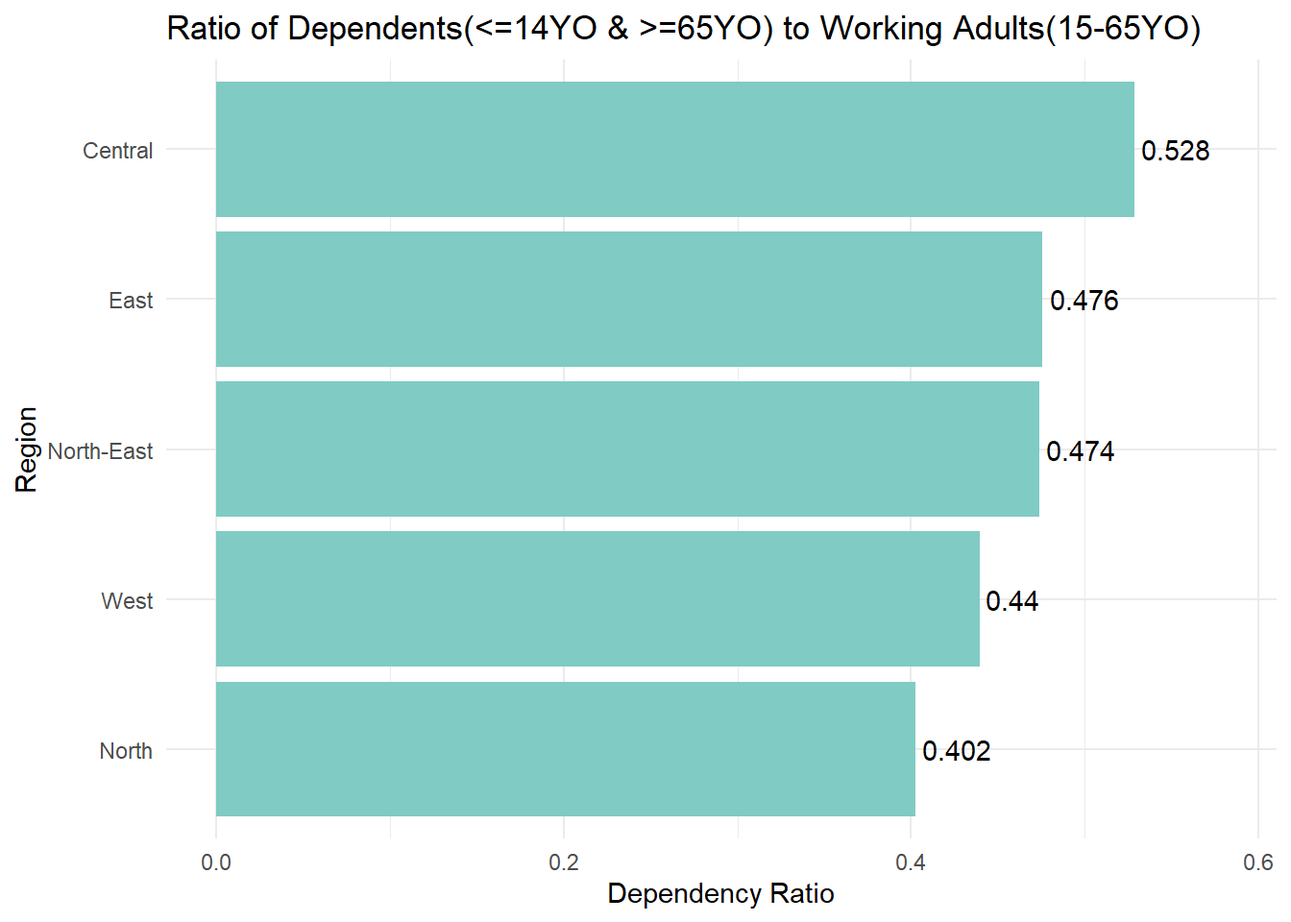
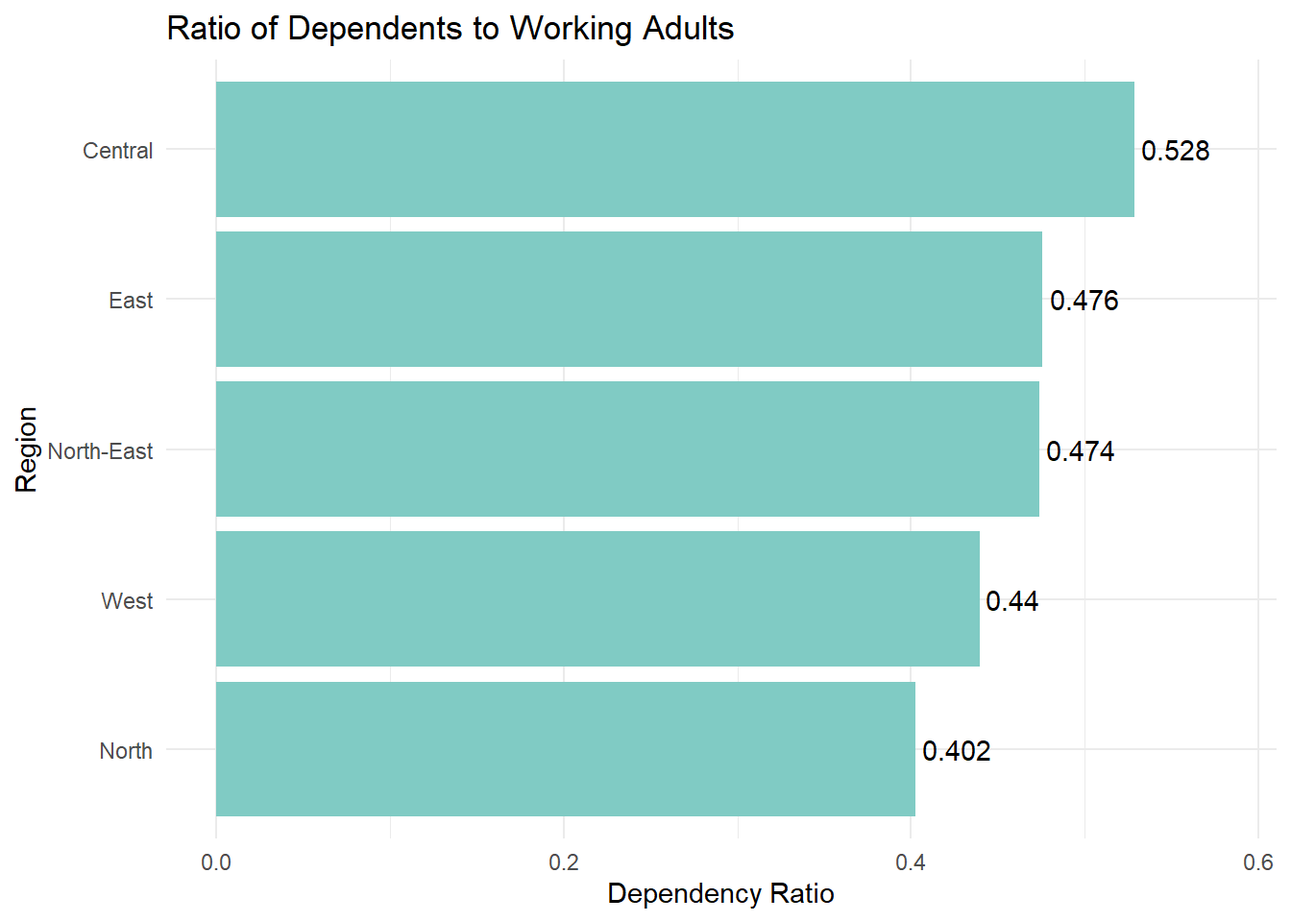
Updated minor errors

Changed region(s): [[0.3438, 0.0, 0.9375, 0.0625]]

diff --git a/_site/Take-Home_Ex/Take-Home_Ex01/Take-Home_Ex01.html b/_site/Take-Home_Ex/Take-Home_Ex01/Take-Home_Ex01.html
@@ -9,7 +9,7 @@
 <meta name="author" content="Liaw Ying Ting, Celin">
 <meta name="dcterms.date" content="2025-05-01">
 
-<title>Take-Home Exercise 1: Creating Data Visualisation that is enlightening and truthful – Celin’s ISSS608 Site</title>
+<title>Take-Home Exercise 1: Creating Data Visualization that is enlightening and truthful – Celin’s ISSS608 Site</title>
 <style>
 code{white-space: pre-wrap;}
 span.smallcaps{font-variant: small-caps;}
@@ -227,8 +227,8 @@ pre > code.sourceCode > span > a:first-child::before { text-decoration: underlin
   <li><a href="#check-for-duplicate-entries" id="toc-check-for-duplicate-entries" class="nav-link" data-scroll-target="#check-for-duplicate-entries">2.3.1 Check for duplicate entries</a></li>
   <li><a href="#check-for-missing-values" id="toc-check-for-missing-values" class="nav-link" data-scroll-target="#check-for-missing-values">2.3.2 Check for missing values</a></li>
   <li><a href="#filtering-for-relevant-variables-renaming-them" id="toc-filtering-for-relevant-variables-renaming-them" class="nav-link" data-scroll-target="#filtering-for-relevant-variables-renaming-them">2.3.3 Filtering for relevant variables &amp; renaming them</a></li>
-  <li><a href="#preview-processed-data" id="toc-preview-processed-data" class="nav-link" data-scroll-target="#preview-processed-data">2.3.4 Preview processed data</a></li>
-  <li><a href="#grouping-them-into-regions-for-easy-visualisation" id="toc-grouping-them-into-regions-for-easy-visualisation" class="nav-link" data-scroll-target="#grouping-them-into-regions-for-easy-visualisation">2.3.5 Grouping them into Regions for Easy Visualisation</a></li>
+  <li><a href="#grouping-them-into-regions-for-easy-visualization" id="toc-grouping-them-into-regions-for-easy-visualization" class="nav-link" data-scroll-target="#grouping-them-into-regions-for-easy-visualization">2.3.4 Grouping them into Regions for Easy Visualization</a></li>
+  <li><a href="#preview-processed-data" id="toc-preview-processed-data" class="nav-link" data-scroll-target="#preview-processed-data">2.3.5 Preview Processed Data</a></li>
   </ul></li>
   </ul></li>
   <li><a href="#data-visualization" id="toc-data-visualization" class="nav-link" data-scroll-target="#data-visualization">3. Data Visualization</a>
@@ -247,7 +247,7 @@ pre > code.sourceCode > span > a:first-child::before { text-decoration: underlin
 
 <header id="title-block-header" class="quarto-title-block default">
 <div class="quarto-title">
-<h1 class="title">Take-Home Exercise 1: Creating Data Visualisation that is enlightening and truthful</h1>
+<h1 class="title">Take-Home Exercise 1: Creating Data Visualization that is enlightening and truthful</h1>
 </div>
 
 
@@ -290,7 +290,7 @@ pre > code.sourceCode > span > a:first-child::before { text-decoration: underlin
 </section>
 <section id="the-task" class="level2">
 <h2 class="anchored" data-anchor-id="the-task">1.2 The Task</h2>
-<p>Assuming the role of the graphical editor of the media company, you are tasked to prepare at most three data visualisation for the article.</p>
+<p>Assuming the role of the graphical editor of the media company, you are tasked to prepare at most three data visualization for the article.</p>
 <p>To accomplish the task, the data: <em>Singapore Residents by Planning Area/Subzone, Single Year of Age and Sex, June 2024</em> dataset shared by <a href="https://www.singstat.gov.sg/find-data/search-by-theme/population/geographic-distribution/latest-data">Department of Statistics, Singapore(DOS)</a> is used.</p>
 </section>
 <section id="breaking-down-the-question" class="level2">
@@ -385,26 +385,9 @@ pre > code.sourceCode > span > a:first-child::before { text-decoration: underlin
 <span id="cb7-13"><a href="#cb7-13" aria-hidden="true" tabindex="-1"></a>  )</span></code><button title="Copy to Clipboard" class="code-copy-button"><i class="bi"></i></button></pre></div>
 </div>
 </section>
-<section id="preview-processed-data" class="level3">
-<h3 class="anchored" data-anchor-id="preview-processed-data">2.3.4 Preview processed data</h3>
-<div class="cell">
-<div class="sourceCode cell-code" id="cb8"><pre class="sourceCode r code-with-copy"><code class="sourceCode r"><span id="cb8-1"><a href="#cb8-1" aria-hidden="true" tabindex="-1"></a><span class="fu">head</span>(resident_data_clean)</span></code><button title="Copy to Clipboard" class="code-copy-button"><i class="bi"></i></button></pre></div>
-<div class="cell-output cell-output-stdout">
-<pre><code># A tibble: 6 × 7
-  Planning_Area Subzone                Age   Sex    Population  Time Age_numeric
-  &lt;chr&gt;         &lt;chr&gt;                  &lt;fct&gt; &lt;chr&gt;       &lt;dbl&gt; &lt;dbl&gt;       &lt;dbl&gt;
-1 Ang Mo Kio    Ang Mo Kio Town Centre 0     Males          10  2024           0
-2 Ang Mo Kio    Ang Mo Kio Town Centre 0     Femal…         10  2024           0
-3 Ang Mo Kio    Ang Mo Kio Town Centre 1     Males          10  2024           1
-4 Ang Mo Kio    Ang Mo Kio Town Centre 1     Femal…         10  2024           1
-5 Ang Mo Kio    Ang Mo Kio Town Centre 2     Males          10  2024           2
-6 Ang Mo Kio    Ang Mo Kio Town Centre 2     Femal…         10  2024           2</code></pre>
-</div>
-</div>
-</section>
-<section id="grouping-them-into-regions-for-easy-visualisation" class="level3">
-<h3 class="anchored" data-anchor-id="grouping-them-into-regions-for-easy-visualisation">2.3.5 Grouping them into Regions for Easy Visualisation</h3>
-<p>As there are too many planning areas, to make things easier to visualise, the planning areas have been further categorised into 5 areas: North, North-East, East, West and Central. This was done by using the categories on the <a href="https://eservice.ura.gov.sg/maps/?service=MP">Urban Redevelopment Authority(URA)</a> website:</p>
+<section id="grouping-them-into-regions-for-easy-visualization" class="level3">
+<h3 class="anchored" data-anchor-id="grouping-them-into-regions-for-easy-visualization">2.3.4 Grouping them into Regions for Easy Visualization</h3>
+<p>As there are too many planning areas, to make things easier to visualize, the planning areas have been further categorised into 5 areas: North, North-East, East, West and Central. This was done by using the categories on the <a href="https://eservice.ura.gov.sg/maps/?service=MP">Urban Redevelopment Authority(URA)</a> website:</p>
 <ul>
 <li><p><strong>North</strong>: Central Water Catchment, Lim Chu Kang, Mandai, Sembawang, Simpang, Sungei Kadut, Woodlands, Yishun</p></li>
 <li><p><strong>North-East</strong>: Ang Mo Kio, Hougang, Punggol, Sengkang, Serangoon, Seletar</p></li>
@@ -416,50 +399,67 @@ pre > code.sourceCode > span > a:first-child::before { text-decoration: underlin
 <p><strong>Steps:</strong></p>
 <p><strong>Step 1:</strong> A new list called <strong>region_map</strong> was created to categorise them into the 5 categories</p>
 <div class="cell">
-<div class="sourceCode cell-code" id="cb10"><pre class="sourceCode r code-with-copy"><code class="sourceCode r"><span id="cb10-1"><a href="#cb10-1" aria-hidden="true" tabindex="-1"></a><span class="co"># 1. Step 1</span></span>
-<span id="cb10-2"><a href="#cb10-2" aria-hidden="true" tabindex="-1"></a>region_map <span class="ot">&lt;-</span> <span class="fu">list</span>(</span>
-<span id="cb10-3"><a href="#cb10-3" aria-hidden="true" tabindex="-1"></a>  <span class="at">North =</span> <span class="fu">c</span>(</span>
-<span id="cb10-4"><a href="#cb10-4" aria-hidden="true" tabindex="-1"></a>    <span class="st">"Central Water Catchment"</span>, <span class="st">"Lim Chu Kang"</span>, <span class="st">"Mandai"</span>,</span>
-<span id="cb10-5"><a href="#cb10-5" aria-hidden="true" tabindex="-1"></a>    <span class="st">"Sembawang"</span>, <span class="st">"Simpang"</span>, <span class="st">"Sungei Kadut"</span>, <span class="st">"Woodlands"</span>, <span class="st">"Yishun"</span></span>
-<span id="cb10-6"><a href="#cb10-6" aria-hidden="true" tabindex="-1"></a>  ),</span>
-<span id="cb10-7"><a href="#cb10-7" aria-hidden="true" tabindex="-1"></a>  <span class="st">`</span><span class="at">North-East</span><span class="st">`</span> <span class="ot">=</span> <span class="fu">c</span>(</span>
-<span id="cb10-8"><a href="#cb10-8" aria-hidden="true" tabindex="-1"></a>    <span class="st">"Ang Mo Kio"</span>, <span class="st">"Hougang"</span>, <span class="st">"Punggol"</span>, <span class="st">"Sengkang"</span>, </span>
-<span id="cb10-9"><a href="#cb10-9" aria-hidden="true" tabindex="-1"></a>    <span class="st">"Serangoon"</span>, <span class="st">"Seletar"</span></span>
-<span id="cb10-10"><a href="#cb10-10" aria-hidden="true" tabindex="-1"></a>  ),</span>
-<span id="cb10-11"><a href="#cb10-11" aria-hidden="true" tabindex="-1"></a>  <span class="at">East =</span> <span class="fu">c</span>(</span>
-<span id="cb10-12"><a href="#cb10-12" aria-hidden="true" tabindex="-1"></a>    <span class="st">"Bedok"</span>, <span class="st">"Changi"</span>, <span class="st">"Changi Bay"</span>, </span>
-<span id="cb10-13"><a href="#cb10-13" aria-hidden="true" tabindex="-1"></a>    <span class="st">"Pasir Ris"</span>, <span class="st">"Paya Lebar"</span>, <span class="st">"Tampines"</span></span>
-<span id="cb10-14"><a href="#cb10-14" aria-hidden="true" tabindex="-1"></a>  ),</span>
-<span id="cb10-15"><a href="#cb10-15" aria-hidden="true" tabindex="-1"></a>  <span class="at">West =</span> <span class="fu">c</span>(</span>
-<span id="cb10-16"><a href="#cb10-16" aria-hidden="true" tabindex="-1"></a>    <span class="st">"Boon Lay"</span>, <span class="st">"Bukit Batok"</span>, <span class="st">"Bukit Panjang"</span>, <span class="st">"Choa Chu Kang"</span>,</span>
-<span id="cb10-17"><a href="#cb10-17" aria-hidden="true" tabindex="-1"></a>    <span class="st">"Clementi"</span>, <span class="st">"Jurong East"</span>, <span class="st">"Jurong West"</span>, <span class="st">"Pioneer"</span>, </span>
-<span id="cb10-18"><a href="#cb10-18" aria-hidden="true" tabindex="-1"></a>    <span class="st">"Tengah"</span>, <span class="st">"Tuas"</span>, <span class="st">"Western Water Catchment"</span></span>
-<span id="cb10-19"><a href="#cb10-19" aria-hidden="true" tabindex="-1"></a>  ),</span>
-<span id="cb10-20"><a href="#cb10-20" aria-hidden="true" tabindex="-1"></a>  <span class="at">Central =</span> <span class="fu">c</span>(</span>
-<span id="cb10-21"><a href="#cb10-21" aria-hidden="true" tabindex="-1"></a>    <span class="st">"Bishan"</span>, <span class="st">"Bukit Merah"</span>, <span class="st">"Bukit Timah"</span>, <span class="st">"Central Area"</span>,</span>
-<span id="cb10-22"><a href="#cb10-22" aria-hidden="true" tabindex="-1"></a>    <span class="st">"Downtown Core"</span>, <span class="st">"Marina East"</span>, <span class="st">"Marina South"</span>, <span class="st">"Museum"</span>,</span>
-<span id="cb10-23"><a href="#cb10-23" aria-hidden="true" tabindex="-1"></a>    <span class="st">"Newton"</span>, <span class="st">"Novena"</span>, <span class="st">"Orchard"</span>, <span class="st">"Outram"</span>, <span class="st">"River Valley"</span>,</span>
-<span id="cb10-24"><a href="#cb10-24" aria-hidden="true" tabindex="-1"></a>    <span class="st">"Rochor"</span>, <span class="st">"Singapore River"</span>, <span class="st">"Straits View"</span>, <span class="st">"Tanglin"</span></span>
-<span id="cb10-25"><a href="#cb10-25" aria-hidden="true" tabindex="-1"></a>  )</span>
-<span id="cb10-26"><a href="#cb10-26" aria-hidden="true" tabindex="-1"></a>)</span></code><button title="Copy to Clipboard" class="code-copy-button"><i class="bi"></i></button></pre></div>
+<div class="sourceCode cell-code" id="cb8"><pre class="sourceCode r code-with-copy"><code class="sourceCode r"><span id="cb8-1"><a href="#cb8-1" aria-hidden="true" tabindex="-1"></a><span class="co"># 1. Step 1</span></span>
+<span id="cb8-2"><a href="#cb8-2" aria-hidden="true" tabindex="-1"></a>region_map <span class="ot">&lt;-</span> <span class="fu">list</span>(</span>
+<span id="cb8-3"><a href="#cb8-3" aria-hidden="true" tabindex="-1"></a>  <span class="at">North =</span> <span class="fu">c</span>(</span>
+<span id="cb8-4"><a href="#cb8-4" aria-hidden="true" tabindex="-1"></a>    <span class="st">"Central Water Catchment"</span>, <span class="st">"Lim Chu Kang"</span>, <span class="st">"Mandai"</span>,</span>
+<span id="cb8-5"><a href="#cb8-5" aria-hidden="true" tabindex="-1"></a>    <span class="st">"Sembawang"</span>, <span class="st">"Simpang"</span>, <span class="st">"Sungei Kadut"</span>, <span class="st">"Woodlands"</span>, <span class="st">"Yishun"</span></span>
+<span id="cb8-6"><a href="#cb8-6" aria-hidden="true" tabindex="-1"></a>  ),</span>
+<span id="cb8-7"><a href="#cb8-7" aria-hidden="true" tabindex="-1"></a>  <span class="st">`</span><span class="at">North-East</span><span class="st">`</span> <span class="ot">=</span> <span class="fu">c</span>(</span>
+<span id="cb8-8"><a href="#cb8-8" aria-hidden="true" tabindex="-1"></a>    <span class="st">"Ang Mo Kio"</span>, <span class="st">"Hougang"</span>, <span class="st">"Punggol"</span>, <span class="st">"Sengkang"</span>, </span>
+<span id="cb8-9"><a href="#cb8-9" aria-hidden="true" tabindex="-1"></a>    <span class="st">"Serangoon"</span>, <span class="st">"Seletar"</span></span>
+<span id="cb8-10"><a href="#cb8-10" aria-hidden="true" tabindex="-1"></a>  ),</span>
+<span id="cb8-11"><a href="#cb8-11" aria-hidden="true" tabindex="-1"></a>  <span class="at">East =</span> <span class="fu">c</span>(</span>
+<span id="cb8-12"><a href="#cb8-12" aria-hidden="true" tabindex="-1"></a>    <span class="st">"Bedok"</span>, <span class="st">"Changi"</span>, <span class="st">"Changi Bay"</span>, </span>
+<span id="cb8-13"><a href="#cb8-13" aria-hidden="true" tabindex="-1"></a>    <span class="st">"Pasir Ris"</span>, <span class="st">"Paya Lebar"</span>, <span class="st">"Tampines"</span></span>
+<span id="cb8-14"><a href="#cb8-14" aria-hidden="true" tabindex="-1"></a>  ),</span>
+<span id="cb8-15"><a href="#cb8-15" aria-hidden="true" tabindex="-1"></a>  <span class="at">West =</span> <span class="fu">c</span>(</span>
+<span id="cb8-16"><a href="#cb8-16" aria-hidden="true" tabindex="-1"></a>    <span class="st">"Boon Lay"</span>, <span class="st">"Bukit Batok"</span>, <span class="st">"Bukit Panjang"</span>, <span class="st">"Choa Chu Kang"</span>,</span>
+<span id="cb8-17"><a href="#cb8-17" aria-hidden="true" tabindex="-1"></a>    <span class="st">"Clementi"</span>, <span class="st">"Jurong East"</span>, <span class="st">"Jurong West"</span>, <span class="st">"Pioneer"</span>, </span>
+<span id="cb8-18"><a href="#cb8-18" aria-hidden="true" tabindex="-1"></a>    <span class="st">"Tengah"</span>, <span class="st">"Tuas"</span>, <span class="st">"Western Water Catchment"</span></span>
+<span id="cb8-19"><a href="#cb8-19" aria-hidden="true" tabindex="-1"></a>  ),</span>
+<span id="cb8-20"><a href="#cb8-20" aria-hidden="true" tabindex="-1"></a>  <span class="at">Central =</span> <span class="fu">c</span>(</span>
+<span id="cb8-21"><a href="#cb8-21" aria-hidden="true" tabindex="-1"></a>    <span class="st">"Bishan"</span>, <span class="st">"Bukit Merah"</span>, <span class="st">"Bukit Timah"</span>, <span class="st">"Central Area"</span>,</span>
+<span id="cb8-22"><a href="#cb8-22" aria-hidden="true" tabindex="-1"></a>    <span class="st">"Downtown Core"</span>, <span class="st">"Marina East"</span>, <span class="st">"Marina South"</span>, <span class="st">"Museum"</span>,</span>
+<span id="cb8-23"><a href="#cb8-23" aria-hidden="true" tabindex="-1"></a>    <span class="st">"Newton"</span>, <span class="st">"Novena"</span>, <span class="st">"Orchard"</span>, <span class="st">"Outram"</span>, <span class="st">"River Valley"</span>,</span>
+<span id="cb8-24"><a href="#cb8-24" aria-hidden="true" tabindex="-1"></a>    <span class="st">"Rochor"</span>, <span class="st">"Singapore River"</span>, <span class="st">"Straits View"</span>, <span class="st">"Tanglin"</span></span>
+<span id="cb8-25"><a href="#cb8-25" aria-hidden="true" tabindex="-1"></a>  )</span>
+<span id="cb8-26"><a href="#cb8-26" aria-hidden="true" tabindex="-1"></a>)</span></code><button title="Copy to Clipboard" class="code-copy-button"><i class="bi"></i></button></pre></div>
 </div>
 <p><strong>Step 2:</strong> A new data object <strong>resident_regioned</strong> was then created with their region matched to them and those who were not found are removed using <code style="color: blue;">filter()</code> function.</p>
 <div class="cell">
-<div class="sourceCode cell-code" id="cb11"><pre class="sourceCode r code-with-copy"><code class="sourceCode r"><span id="cb11-1"><a href="#cb11-1" aria-hidden="true" tabindex="-1"></a><span class="co"># Step 2</span></span>
-<span id="cb11-2"><a href="#cb11-2" aria-hidden="true" tabindex="-1"></a>resident_regioned <span class="ot">&lt;-</span> resident_data_clean <span class="sc">%&gt;%</span></span>
-<span id="cb11-3"><a href="#cb11-3" aria-hidden="true" tabindex="-1"></a>  <span class="fu">mutate</span>(</span>
-<span id="cb11-4"><a href="#cb11-4" aria-hidden="true" tabindex="-1"></a>    <span class="at">Region =</span> <span class="fu">case_when</span>(</span>
-<span id="cb11-5"><a href="#cb11-5" aria-hidden="true" tabindex="-1"></a>      Planning_Area <span class="sc">%in%</span> region_map<span class="sc">$</span>North        <span class="sc">~</span> <span class="st">"North"</span>,</span>
-<span id="cb11-6"><a href="#cb11-6" aria-hidden="true" tabindex="-1"></a>      Planning_Area <span class="sc">%in%</span> region_map<span class="sc">$</span><span class="st">`</span><span class="at">North-East</span><span class="st">`</span> <span class="sc">~</span> <span class="st">"North-East"</span>,</span>
-<span id="cb11-7"><a href="#cb11-7" aria-hidden="true" tabindex="-1"></a>      Planning_Area <span class="sc">%in%</span> region_map<span class="sc">$</span>East         <span class="sc">~</span> <span class="st">"East"</span>,</span>
-<span id="cb11-8"><a href="#cb11-8" aria-hidden="true" tabindex="-1"></a>      Planning_Area <span class="sc">%in%</span> region_map<span class="sc">$</span>West         <span class="sc">~</span> <span class="st">"West"</span>,</span>
-<span id="cb11-9"><a href="#cb11-9" aria-hidden="true" tabindex="-1"></a>      Planning_Area <span class="sc">%in%</span> region_map<span class="sc">$</span>Central      <span class="sc">~</span> <span class="st">"Central"</span>,</span>
-<span id="cb11-10"><a href="#cb11-10" aria-hidden="true" tabindex="-1"></a>      <span class="cn">TRUE</span>                                       <span class="sc">~</span> <span class="cn">NA_character_</span></span>
-<span id="cb11-11"><a href="#cb11-11" aria-hidden="true" tabindex="-1"></a>    )</span>
-<span id="cb11-12"><a href="#cb11-12" aria-hidden="true" tabindex="-1"></a>  ) <span class="sc">%&gt;%</span></span>
-<span id="cb11-13"><a href="#cb11-13" aria-hidden="true" tabindex="-1"></a>  <span class="fu">filter</span>(<span class="sc">!</span><span class="fu">is.na</span>(Region))</span></code><button title="Copy to Clipboard" class="code-copy-button"><i class="bi"></i></button></pre></div>
+<div class="sourceCode cell-code" id="cb9"><pre class="sourceCode r code-with-copy"><code class="sourceCode r"><span id="cb9-1"><a href="#cb9-1" aria-hidden="true" tabindex="-1"></a><span class="co"># Step 2</span></span>
+<span id="cb9-2"><a href="#cb9-2" aria-hidden="true" tabindex="-1"></a>resident_regioned <span class="ot">&lt;-</span> resident_data_clean <span class="sc">%&gt;%</span></span>
+<span id="cb9-3"><a href="#cb9-3" aria-hidden="true" tabindex="-1"></a>  <span class="fu">mutate</span>(</span>
+<span id="cb9-4"><a href="#cb9-4" aria-hidden="true" tabindex="-1"></a>    <span class="at">Region =</span> <span class="fu">case_when</span>(</span>
+<span id="cb9-5"><a href="#cb9-5" aria-hidden="true" tabindex="-1"></a>      Planning_Area <span class="sc">%in%</span> region_map<span class="sc">$</span>North        <span class="sc">~</span> <span class="st">"North"</span>,</span>
+<span id="cb9-6"><a href="#cb9-6" aria-hidden="true" tabindex="-1"></a>      Planning_Area <span class="sc">%in%</span> region_map<span class="sc">$</span><span class="st">`</span><span class="at">North-East</span><span class="st">`</span> <span class="sc">~</span> <span class="st">"North-East"</span>,</span>
+<span id="cb9-7"><a href="#cb9-7" aria-hidden="true" tabindex="-1"></a>      Planning_Area <span class="sc">%in%</span> region_map<span class="sc">$</span>East         <span class="sc">~</span> <span class="st">"East"</span>,</span>
+<span id="cb9-8"><a href="#cb9-8" aria-hidden="true" tabindex="-1"></a>      Planning_Area <span class="sc">%in%</span> region_map<span class="sc">$</span>West         <span class="sc">~</span> <span class="st">"West"</span>,</span>
+<span id="cb9-9"><a href="#cb9-9" aria-hidden="true" tabindex="-1"></a>      Planning_Area <span class="sc">%in%</span> region_map<span class="sc">$</span>Central      <span class="sc">~</span> <span class="st">"Central"</span>,</span>
+<span id="cb9-10"><a href="#cb9-10" aria-hidden="true" tabindex="-1"></a>      <span class="cn">TRUE</span>                                       <span class="sc">~</span> <span class="cn">NA_character_</span></span>
+<span id="cb9-11"><a href="#cb9-11" aria-hidden="true" tabindex="-1"></a>    )</span>
+<span id="cb9-12"><a href="#cb9-12" aria-hidden="true" tabindex="-1"></a>  ) <span class="sc">%&gt;%</span></span>
+<span id="cb9-13"><a href="#cb9-13" aria-hidden="true" tabindex="-1"></a>  <span class="fu">filter</span>(<span class="sc">!</span><span class="fu">is.na</span>(Region))</span></code><button title="Copy to Clipboard" class="code-copy-button"><i class="bi"></i></button></pre></div>
 </div>
 <p>The data will then be grouped into their respective regions for the analysis.</p>
+</section>
+<section id="preview-processed-data" class="level3">
+<h3 class="anchored" data-anchor-id="preview-processed-data">2.3.5 Preview Processed Data</h3>
+<div class="cell">
+<div class="sourceCode cell-code" id="cb10"><pre class="sourceCode r code-with-copy"><code class="sourceCode r"><span id="cb10-1"><a href="#cb10-1" aria-hidden="true" tabindex="-1"></a><span class="fu">head</span>(resident_regioned)</span></code><button title="Copy to Clipboard" class="code-copy-button"><i class="bi"></i></button></pre></div>
+<div class="cell-output cell-output-stdout">
+<pre><code># A tibble: 6 × 8
+  Planning_Area Subzone          Age   Sex   Population  Time Age_numeric Region
+  &lt;chr&gt;         &lt;chr&gt;            &lt;fct&gt; &lt;chr&gt;      &lt;dbl&gt; &lt;dbl&gt;       &lt;dbl&gt; &lt;chr&gt; 
+1 Ang Mo Kio    Ang Mo Kio Town… 0     Males         10  2024           0 North…
+2 Ang Mo Kio    Ang Mo Kio Town… 0     Fema…         10  2024           0 North…
+3 Ang Mo Kio    Ang Mo Kio Town… 1     Males         10  2024           1 North…
+4 Ang Mo Kio    Ang Mo Kio Town… 1     Fema…         10  2024           1 North…
+5 Ang Mo Kio    Ang Mo Kio Town… 2     Males         10  2024           2 North…
+6 Ang Mo Kio    Ang Mo Kio Town… 2     Fema…         10  2024           2 North…</code></pre>
+</div>
+</div>
 <p>Now that data wrangling is complete, 3 key visualizations will be performed on this data set.</p>
 </section>
 </section>
@@ -653,10 +653,10 @@ pre > code.sourceCode > span > a:first-child::before { text-decoration: underlin
 </section>
 <section id="bar-graph-of-dependency-ratio" class="level2">
 <h2 class="anchored" data-anchor-id="bar-graph-of-dependency-ratio">3.3 Bar Graph of Dependency Ratio</h2>
-<p>The <strong>dependency ratio</strong> is a demographic measure that indicates the <strong>ratio of dependents</strong> (those typically not in the labour force) t<strong>o the working-age population</strong>. <strong>Dependents</strong> are usually defined as those u<strong>nder 15 and above 65 years old</strong>.</p>
+<p>The <strong>dependency ratio</strong> is a demographic measure that indicates the <strong>ratio of dependents</strong> (those typically not in the labour force) <strong>to the working-age population</strong>. <strong>Dependents</strong> are usually defined as those <strong>under 15 and above 65 years old</strong>.</p>
 <p>With these information, the dependency ratio of the population in Singapore in the different regions will be calculated. This information will reflect the proportion of individuals who are likely to be economically dependent on others.</p>
 <p><code style="color: blue;">adjusted_ageing_ratio_by_region</code> is the new object created to add new custom age groups.</p>
-<p><code style="color: blue;">mutate()</code> is used to change the item to numeric so that i am able to use &lt;= and &gt;= to create the new custom <strong>Age_Group of 24 to 67</strong> and <strong>68 and above.</strong></p>
+<p><code style="color: blue;">mutate()</code> is used to change the item to numeric so that &lt;= and &gt;= can be utilized to create the new custom <strong>Age_Group of 24 to 67</strong> and <strong>68 and above.</strong></p>
 <p><code style="color: blue;">pivot_wider()</code> is used to transform data from long format to wide format so that the ageing ratio can be calculated correctly.</p>
 <p><code style="color: blue;">ggplot()</code> is used to plot the horizontal bar chart, using <code style="color: blue;">reorder()</code> to reorder the x-axis so that the bars are sorted by ratio.</p>
 <p><code style="color: blue;">geom_col()</code> is used to adjust the colour of the bars and <code style="color: blue;">geom_text()</code> is used to add labels to the bars, using <strong>hjust</strong> to push the labels to the right of each bar.</p>
@@ -712,15 +712,15 @@ pre > code.sourceCode > span > a:first-child::before { text-decoration: underlin
 </section>
 <section id="conclusion" class="level1">
 <h1>4. Conclusion</h1>
-<p>In this exercise, data cleaning and visualisation of data was performed to examine the relationship between Age, Gender, Region and Population in Singapore. The key findings are:</p>
+<p>In this exercise, data cleaning and visualization of data was performed to examine the relationship between Age, Gender, Region and Population in Singapore. The key findings are:</p>
 <ul>
-<li><p>There is <strong>gender balance consistency across Singapore</strong> with <strong>slightly less males</strong> than females <strong>in all Regions</strong> of Singapore</p></li>
+<li><p>There is <strong>gender-balance consistency across Singapore</strong> with <strong>slightly less males</strong> than females <strong>in all Regions</strong> of Singapore</p></li>
 <li><p>There are <strong>more males than females</strong> in the <strong>Age Range 0 to 29</strong>, except in the Central Area</p></li>
-<li><p>There is consistently <strong>more population in the Age Range 30-69</strong> as compared to <strong>Age Range 0 to 29</strong>, showing a decrease in birth rate in Singapore</p></li>
+<li><p>There is consistently <strong>more population in the Age Range 30 to 69</strong> as compared to <strong>Age Range 0 to 29</strong>, showing a decrease in birth rate in Singapore</p></li>
 <li><p>There is a good average ratio of <strong>1 dependent to 2 working adults</strong> in Singapore, showing a healthy demographic</p></li>
 </ul>
 <p>To conclude, Singapore has a balanced gender ratio with healthy dependency structure across the regions. However, a smaller proportion of young residents means a declining birth rate. If this trend continues, it may lead to a rising dependency in the future and policies should be adjusted for ageing related needs. Overall, current demographics reflect stability but call for forward looking strategies.</p>
-<p>With relation to the codes used for analysis, <strong>ggplot2</strong> is a powerful package for exploratory data analysis when paired with <strong>dplyr</strong> which allows mutation of the data to usable formats. The original dataset consists of many areas which makes it difficult to find a direction and thus was further categorised into subgroups using the dplyr functions. Additional functions like <strong>geom_col, geom_text, coord_flip, coord_cartesian and coor_polar</strong> were further utilised to create the visualisations for visual analysis.</p>
+<p>With relation to the codes used for analysis, <strong>ggplot2</strong> is a powerful package for exploratory data analysis when paired with <strong>dplyr</strong> which allows mutation of the data to usable formats. The original dataset consists of many areas which makes it difficult to find a direction and thus was further categorised into subgroups using the dplyr functions. Additional functions like <strong>geom_col, geom_text, coord_flip, coord_cartesian and coor_polar</strong> were further utilised to create the visualizations for visual analysis.</p>
 <p>Overall, this task was helpful to practice how to use R to mutate data and to present data effectively, conveying a clear message for the results obtained.</p>
 </section>
 <section id="key-references" class="level1">
